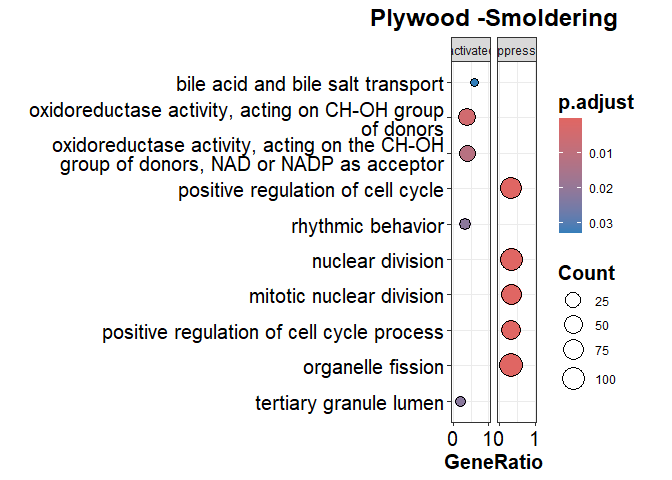
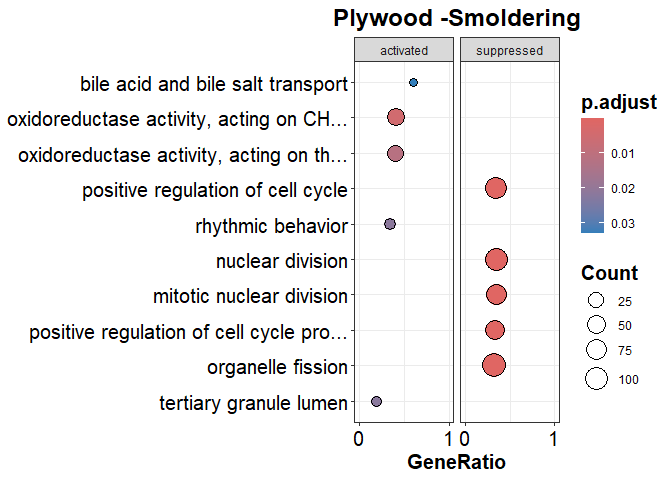
09.05.2024

diff --git a/1-bulk-RNAseq_data_analysis.md b/1-bulk-RNAseq_data_analysis.md
@@ -771,15 +771,15 @@ genelist_GdataCBs = sort(genelist_GdataCBs, decreasing = TRUE) #must sort in des
 #Performing GSEA analysis
 #Gene Ontology (GO) 
 gseGO_CBs_ALL <- gseGO(geneList=genelist_GdataCBs, 
-                      ont ="ALL", 
-                      keyType = "ENSEMBL", 
-                      minGSSize = 10, #min size of gene sets for analysis
-                      maxGSSize = 500, #max size of gene sets for analysis
-                      pvalueCutoff = 0.05, 
-                      eps = 0,
-                      verbose = TRUE, 
-                      OrgDb = organism, 
-                      pAdjustMethod = "BH") #Benjamini Hochberg adjustment
+                       ont ="ALL", 
+                       keyType = "ENSEMBL", 
+                       minGSSize = 10, #min size of gene sets for analysis
+                       maxGSSize = 500, #max size of gene sets for analysis
+                       pvalueCutoff = 0.05, 
+                       eps = 0,
+                       verbose = TRUE, 
+                       OrgDb = organism, 
+                       pAdjustMethod = "BH") #Benjamini Hochberg adjustment
 
 #dotplot
 enrichplot::dotplot(gseGO_CBs_ALL, split=".sign", title = "Cardboard -Smoldering",
@@ -788,7 +788,7 @@ enrichplot::dotplot(gseGO_CBs_ALL, split=".sign", title = "Cardboard -Smoldering
   theme(axis.text.y = element_text(lineheight = 0.80, size = 15),
         title = element_text(size = 15, face="bold"),
         plot.title = element_text(hjust=0.5))+
-  coord_fixed(ratio = 1, xlim = NULL, ylim = NULL, expand = TRUE, clip = "on") 
+  scale_y_discrete(label=function(y) stringr::str_trunc(y, 40))  
 ```
 
 ![](README_figs/README1-unnamed-chunk-19-1.png)<!-- -->
@@ -797,15 +797,15 @@ enrichplot::dotplot(gseGO_CBs_ALL, split=".sign", title = "Cardboard -Smoldering
 #GO over-representation analysis
 geneCBs <- names(genelist_GdataCBs[genelist_GdataCBs[] > 0.5]) # logFC > 0.5
 enGOCBs <- enrichGO(gene         = geneCBs,
-                   OrgDb         = org.Hs.eg.db,
-                   keyType       = 'ENSEMBL',
-                   ont           = "ALL",
-                   pAdjustMethod = "BH",
-                   pvalueCutoff  = 0.05,
-                   qvalueCutoff  = 0.1)
+                    OrgDb         = org.Hs.eg.db,
+                    keyType       = 'ENSEMBL',
+                    ont           = "ALL",
+                    pAdjustMethod = "BH",
+                    pvalueCutoff  = 0.05,
+                    qvalueCutoff  = 0.1)
 head(enGOCBs)
 
-#barplot
+
 barplot(enGOCBs, showCategory=10, size = 15, title = "Cardboard -Smoldering")+ 
   scale_x_continuous(breaks = seq(0, 10, by = 5), limits=c(0,10))+
   theme(axis.text.y = element_text(lineheight = 0.7, size = 15),
@@ -849,7 +849,7 @@ enrichplot::dotplot(gseGO_PWs_ALL, split=".sign", title = "Plywood -Smoldering",
   theme(axis.text.y = element_text(lineheight = 0.80, size = 15),
         title = element_text(size = 15, face="bold"),
         plot.title = element_text(hjust=0.5))+
-  coord_fixed(ratio = 1, xlim = NULL, ylim = NULL, expand = TRUE, clip = "on")
+  scale_y_discrete(label=function(y) stringr::str_trunc(y, 40)) 
 ```
 
 ![](README_figs/README1-unnamed-chunk-21-1.png)<!-- -->
@@ -909,7 +909,7 @@ enrichplot::dotplot(gseGO_PLs_ALL, split=".sign", title = "Plastic -Smoldering",
   theme(axis.text.y = element_text(lineheight = 0.80, size = 15),
         title = element_text(size = 15, face="bold"),
         plot.title = element_text(hjust=0.5))+
-  coord_fixed(ratio = 1, xlim = NULL, ylim = NULL, expand = TRUE, clip = "on") 
+  scale_y_discrete(label=function(y) stringr::str_trunc(y, 40))  
 ```
 
 ![](README_figs/README1-unnamed-chunk-23-1.png)<!-- -->
@@ -928,9 +928,9 @@ head(enGOPLs)
 
 #barplot
 barplot(enGOPLs, showCategory=10, font = 15, title = "Plastic -Smoldering")+
-scale_x_continuous(breaks = seq(0, 10, by = 5), limits=c(0,10))+
+  scale_x_continuous(breaks = seq(0, 10, by = 5), limits=c(0,10))+
   theme(axis.text.y = element_text(lineheight = 0.7, size = 15),
-        title = element_text(size = 15, face="bold"))+ coord_fixed(2)
+        title = element_text(size = 15, face="bold"))+ coord_fixed(2) 
 ```
 
 ![](README_figs/README1-unnamed-chunk-24-1.png)<!-- -->
